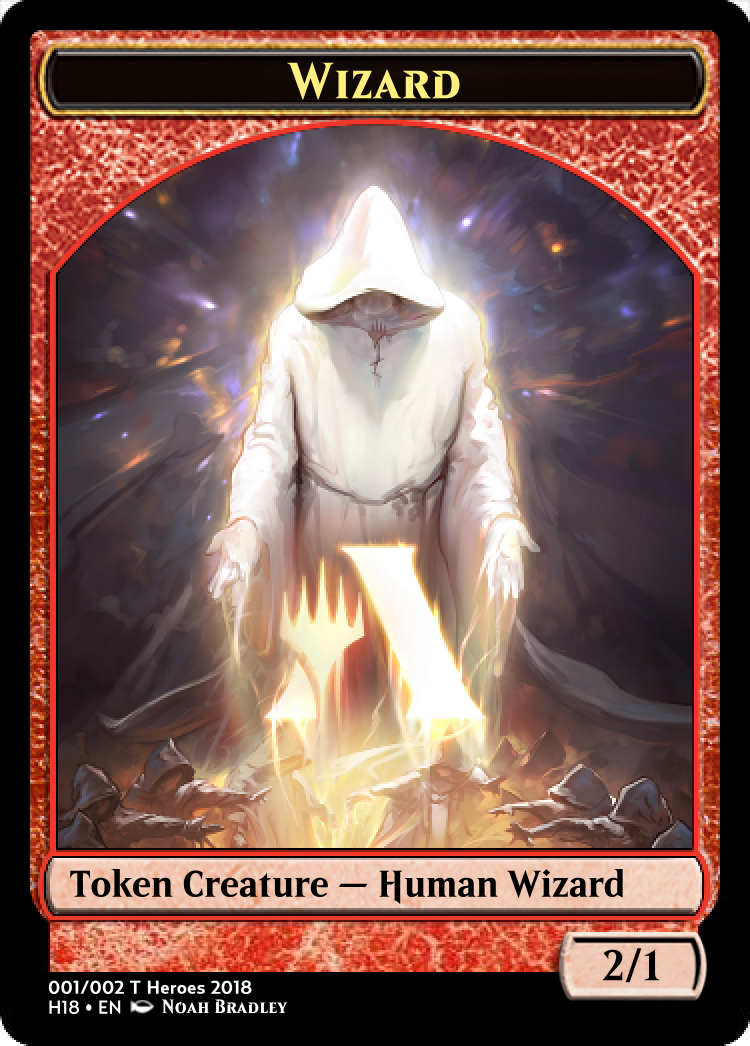
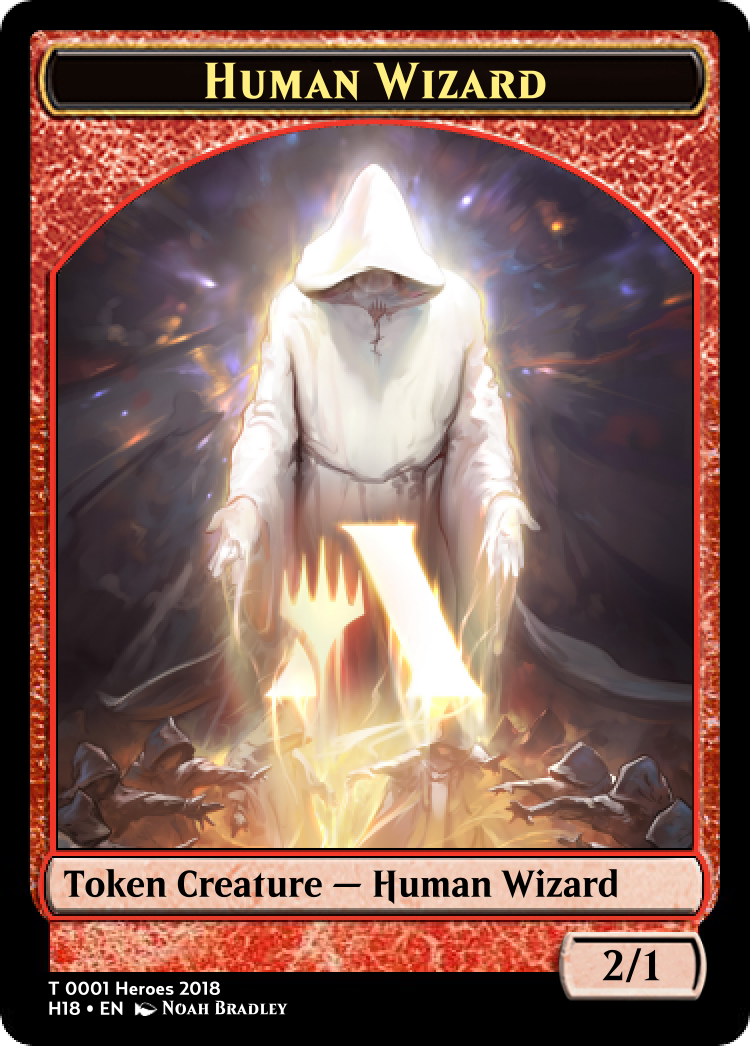
fix 2/1 red Human Wizard creature token

diff --git a/TODO.md b/TODO.md
@@ -6,15 +6,13 @@
 
 ## Fix cards
 
-- _2/1 red Human Wizard creature token_ should have the name "Human Wizard"
-  instead of "Wizard."
-- _4/4 red Giant Bird creature token_ should have the name "Giant Bird" instead
+- UGL: _4/4 red Giant Bird creature token_ should have the name "Giant Bird" instead
   of "Giant Chicken."
-- _Arrest token_ should have its mana cost in its reminder text.
-- _Krosan Adaptation token_ should have its mana cost in its reminder text.
-- _Murgish Cemetery_ should specify the token creature type, Zombie.
-- _Pacifism token_ should have its mana cost in its reminder text.
-- _Reassembling Skeleton token_ should have its mana cost in its reminder text.
+- CMB1: _Krosan Adaptation token_ should have its mana cost in its reminder text.
+- CMB1: _Pacifism token_ should have its mana cost in its reminder text.
+- CMB1: _Reassembling Skeleton token_ should have its mana cost in its reminder text.
+- PMOA: _Arrest token_ should have its mana cost in its reminder text.
+- PSDG: _Murgish Cemetery_ should specify the token creature type, Zombie.
 
 ## Create tokens
 
